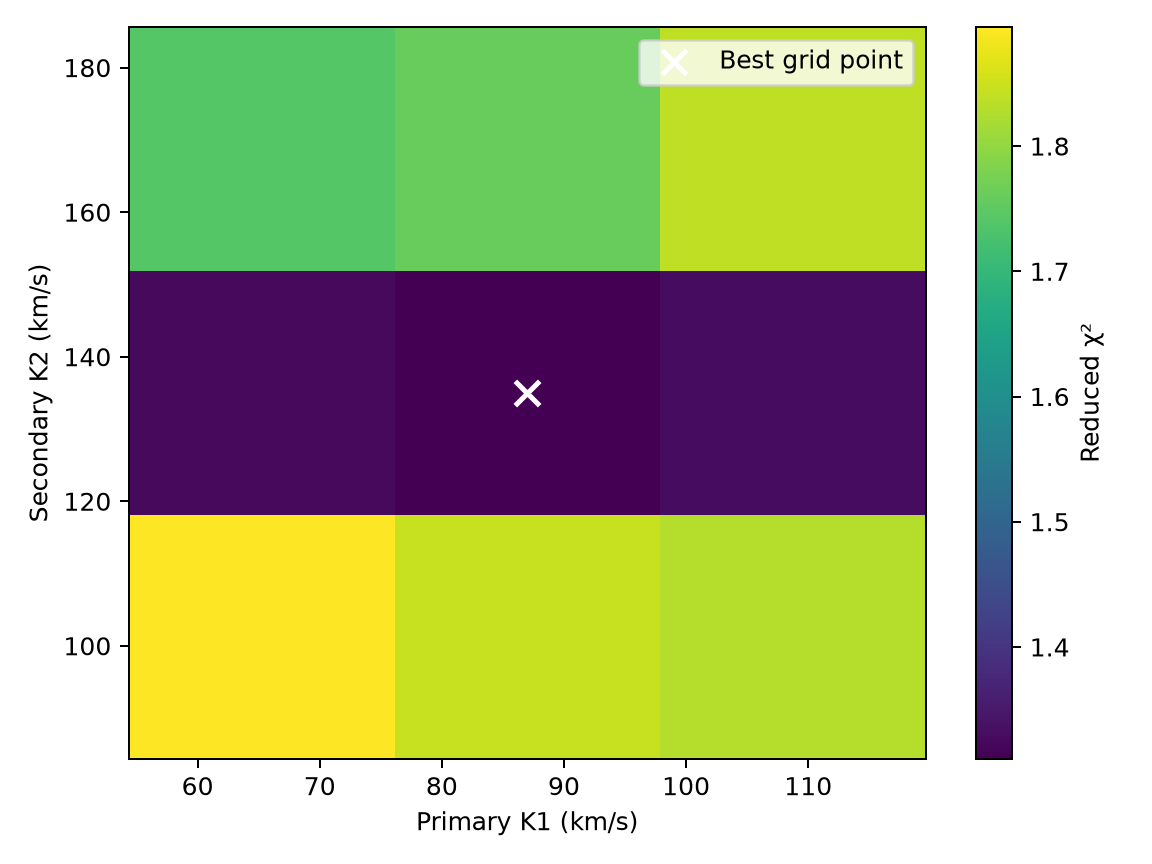
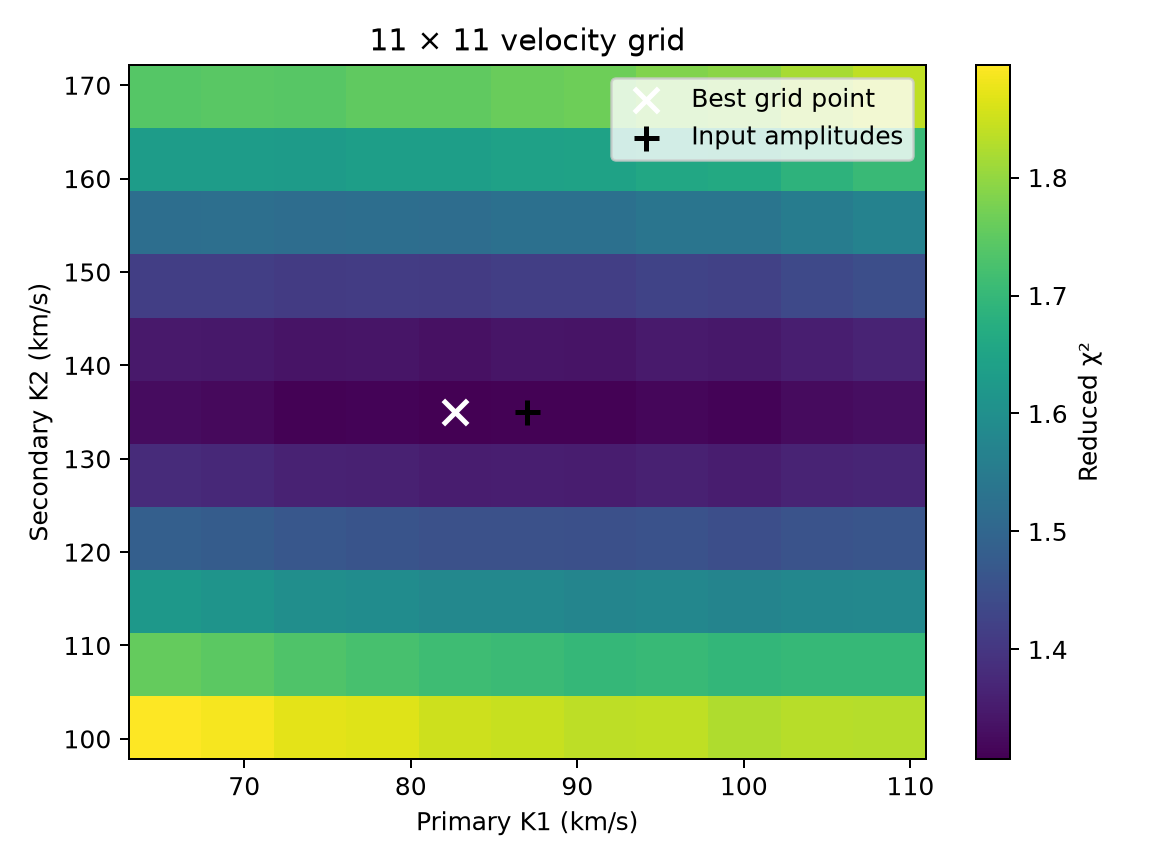
docs: show 11 by 11 velocity grid

diff --git a/docs/generate_figures.py b/docs/generate_figures.py
@@ -85,17 +85,23 @@ with TemporaryDirectory() as temporary:
     axes[-1].set_xlabel("Wavelength (Å)")
     _save(figure, "observed_fit.png")
 
-    scores = np.loadtxt(folder / "Output" / "HeI4472_grid_dis_K1K2.txt")
-    k1 = _grid_values(config, "K1", 0)
-    k2 = _grid_values(config, "K2", 1)
+    grid_config = {**config, "dense_k_arr": [11, 11], "output_path": str(folder / "GridOutput"),
+                   "num_itr_final": 8, "plot_extremes": False, "plot_conv": False}
+    _, grid_orbit = run(grid_config)
+    scores = np.loadtxt(folder / "GridOutput" / "HeI4472_grid_dis_K1K2.txt")
+    assert scores.shape == (11, 11)
+    k1 = _grid_values(grid_config, "K1", 0)
+    k2 = _grid_values(grid_config, "K2", 1)
     k1_half = (k1[1] - k1[0]) / 2
     k2_half = (k2[1] - k2[0]) / 2
     figure, axis = plt.subplots(figsize=(6.4, 4.8))
     image = axis.imshow(scores.T, origin="lower", extent=(k1[0] - k1_half, k1[-1] + k1_half,
                                                         k2[0] - k2_half, k2[-1] + k2_half),
                         aspect="auto", interpolation="nearest", cmap="viridis")
-    axis.scatter([orbit["K1"]], [orbit["K2"]], marker="x", s=95, color="white", lw=2, label="Best grid point")
-    axis.set(xlabel="Primary K1 (km/s)", ylabel="Secondary K2 (km/s)")
+    axis.scatter([grid_orbit["K1"]], [grid_orbit["K2"]], marker="x", s=95, color="white", lw=2, label="Best grid point")
+    axis.scatter([config["orbital_params"]["K1"]], [config["orbital_params"]["K2"]],
+                 marker="+", s=100, color="black", lw=2, label="Input amplitudes")
+    axis.set(xlabel="Primary K1 (km/s)", ylabel="Secondary K2 (km/s)", title="11 × 11 velocity grid")
     axis.legend(loc="upper right")
     figure.colorbar(image, ax=axis, label="Reduced χ²")
     _save(figure, "velocity_grid.png")

diff --git a/docs/method.md b/docs/method.md
@@ -52,10 +52,10 @@ With `grid_dis: true`, SAAD tries the Cartesian product of the configured $K_1$ 
 Each grid runs from `ini_fac_K_arr[i] * K_i` to `fin_fac_K_arr[i] * K_i`, inclusive, with `dense_k_arr[i]` points. A one-point grid uses the **initial** factor, so set that factor to `1.0` to hold an amplitude at its supplied value.
 
 :::{figure} _static/figures/velocity_grid.png
-:alt: Three by three reduced chi-square grid around the supplied velocity amplitudes.
+:alt: Eleven by eleven reduced chi-square grid around the supplied velocity amplitudes.
 :width: 75%
 
-Reduced chi-square scores for the seeded example's three-by-three grid. The white cross marks the selected point. A coarse grid demonstrates the workflow; scientific analyses should choose and inspect a grid appropriate to the data.
+Reduced chi-square scores from a separate 11-by-11 scan of the seeded example observations. The white cross marks the selected point; the black plus marks the amplitudes used to generate the spectra. The quickstart uses a faster three-by-three grid for its component spectra. Inspect grid size and scoring assumptions before scientific use.
 :::
 
 The score uses residuals in `ranges`, dividing each observation by a noise estimate from its first 20 flux samples (floor $10^{-3}$). It divides the summed squared residual by the number of scored observed pixels minus two component spectra's scored pixels, with a minimum denominator of one. Consequently, the reported `reduced_chi2` is an operational fit score; interpret formal confidence intervals only after checking noise and model assumptions. The grid search does not estimate uncertainties for $K_1$ or $K_2$.

diff --git a/docs/outputs.md b/docs/outputs.md
@@ -34,10 +34,10 @@ print(summary["K1"], summary["K2"], wave.shape, primary_flux.min())
 ## Interpret the grid and convergence
 
 :::{figure} _static/figures/velocity_grid.png
-:alt: Reduced chi-square across a coarse grid in primary and secondary velocity amplitudes.
+:alt: Reduced chi-square across an eleven by eleven grid in primary and secondary velocity amplitudes.
 :width: 75%
 
-The seeded example's grid score is lowest at the marked point. This small grid is for demonstration, not a measurement of amplitude uncertainty.
+An 11-by-11 scan of the seeded example. White cross marks its lowest score; black plus marks the amplitudes injected into the synthetic data. This is a separate refinement scan from the quickstart's three-by-three run, and it is not a measurement of amplitude uncertainty.
 :::
 
 :::{figure} _static/figures/convergence.png
